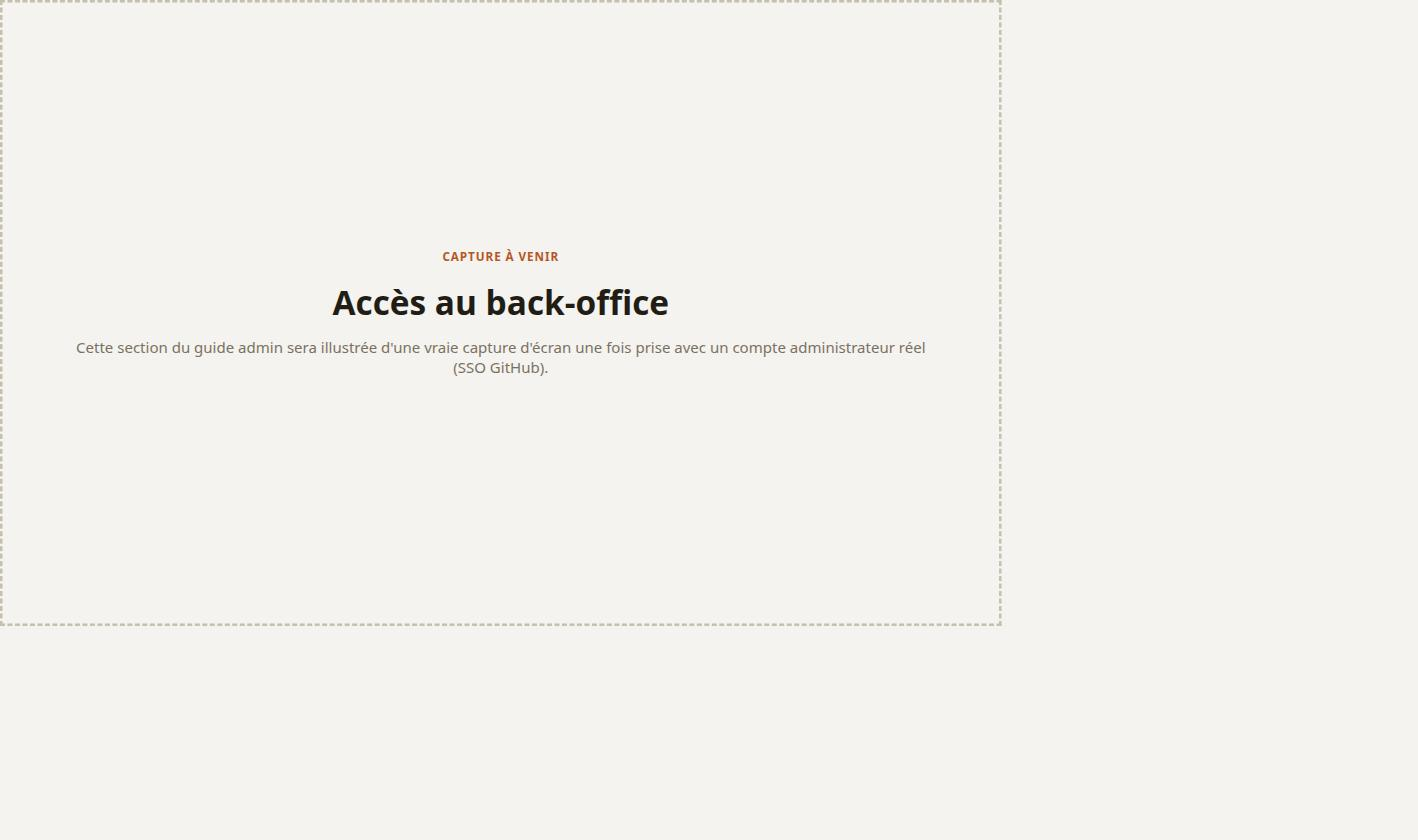
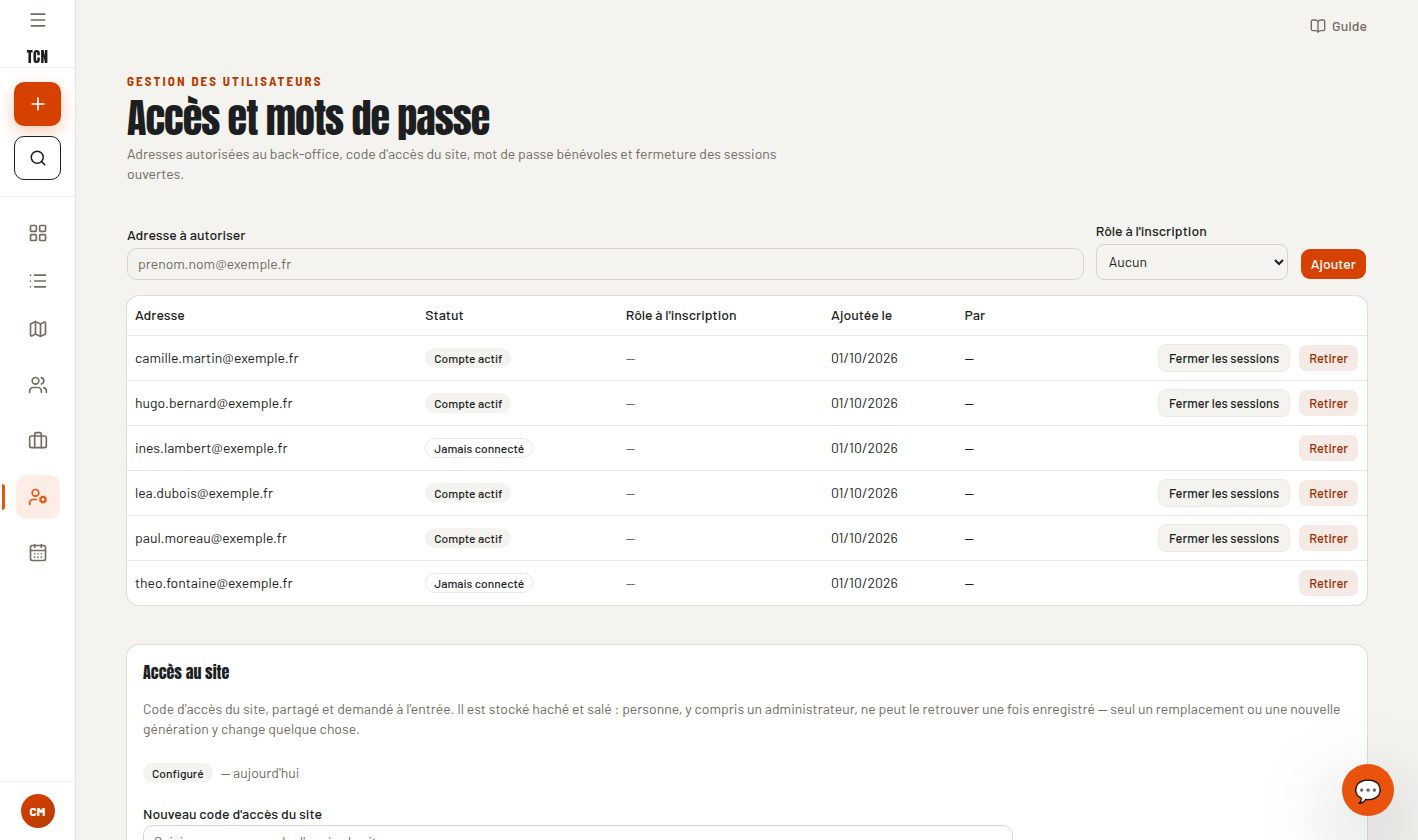
docs(guide): real captures for the last placeholders and the public-page admin gestures (#874, #1046)
- #874: « Rôles des utilisateurs » and « Accès et mots de passe » get real captures, on fictitious accounts. No placeholder is left, so the placeholder badge and alt prefix are removed from GuideSection and its type.
- #1046: new admin section « Gestes sur les pages publiques » (« Corriger la fiche », « Valider la saison », « Rattacher » and « Supprimer » on an athlete's results), with its capture.

diff --git a/frontend/components/guide/guide-content.admin.ts b/frontend/components/guide/guide-content.admin.ts
@@ -85,7 +85,7 @@ export const GUIDE_ADMIN: GuideSection[] = [
       "Ouvrir « Rôles des utilisateurs » depuis la navigation admin.",
       "Retrouver la personne concernée, puis lui attribuer ou retirer un rôle.",
     ],
-    captures: [{ src: "/guide/admin/utilisateurs.jpg", alt: "Liste des utilisateurs et de leurs rôles", placeholder: true }],
+    captures: [{ src: "/guide/admin/utilisateurs.jpg", alt: "Liste des utilisateurs et de leurs rôles" }],
   },
   {
     id: "journal",
@@ -163,6 +163,19 @@ export const GUIDE_ADMIN: GuideSection[] = [
       "Mot de passe bénévoles : même geste, pour la page de vérification des résultats réservée aux bénévoles.",
       "Fermer les sessions : par adresse depuis la liste, ou toutes à la fois en bas de l'écran, vous compris.",
     ],
-    captures: [{ src: "/guide/admin/acces-backoffice.jpg", alt: "Liste des adresses autorisées au back-office", placeholder: true }],
+    captures: [{ src: "/guide/admin/acces-backoffice.jpg", alt: "Liste des adresses autorisées au back-office" }],
+  },
+  {
+    id: "pages-publiques",
+    titre: "Gestes sur les pages publiques",
+    casUsage:
+      "Certains gestes d'administration se font depuis la fiche d'un athlète, sans passer par le back-office : ils n'apparaissent qu'aux comptes qui en ont le pouvoir.",
+    etapes: [
+      "Ouvrir la fiche de l'athlète, par la recherche (⌘K ou Ctrl K) ou depuis un classement.",
+      "« Corriger la fiche » : modifier le nom, le prénom, la date de naissance ou le club actuel. Un club corrigé à la main n'est plus réécrit par les imports suivants.",
+      "« Valider la saison » : choisir la saison, lire le décompte des épreuves et du bénévolat affiché dessous, puis valider.",
+      "Dans la liste de ses épreuves, « Rattacher » déplace un résultat vers la bonne fiche, et « Supprimer » le retire.",
+    ],
+    captures: [{ src: "/guide/admin/pages-publiques.jpg", alt: "Fiche athlète vue par un administrateur, avec la correction de fiche et la validation de saison" }],
   },
 ];

diff --git a/frontend/components/guide/guide-content.admin.test.ts b/frontend/components/guide/guide-content.admin.test.ts
@@ -19,10 +19,11 @@ const IDS_ATTENDUS = [
   "portee-compteurs",
   "benevolat-validation",
   "acces-backoffice",
+  "pages-publiques",
 ];
 
 describe("GUIDE_ADMIN", () => {
-  it("expose exactement les 15 ids attendus, dans l'ordre", () => {
+  it("expose exactement les 16 ids attendus, dans l'ordre", () => {
     expect(GUIDE_ADMIN.map((section) => section.id)).toEqual(IDS_ATTENDUS);
   });
 
@@ -42,21 +43,6 @@ describe("GUIDE_ADMIN", () => {
       }
     }
   });
-
-  it("ne porte `placeholder: true` que sur les captures qui n'en ont pas encore de réelle (#874)", () => {
-    // 13/15 des captures admin ont été remplacées par de vraies captures en
-    // dev local (session admin réelle) ; les 2 restantes exposent des
-    // données personnelles réelles (liste d'utilisateurs, adresses
-    // autorisées) qu'on ne persiste pas dans le dépôt sans plus de
-    // précaution — elles restent des placeholders volontairement.
-    const ENCORE_PLACEHOLDER = ["utilisateurs", "acces-backoffice"];
-    for (const section of GUIDE_ADMIN) {
-      const attendu = ENCORE_PLACEHOLDER.includes(section.id);
-      for (const capture of section.captures) {
-        expect(capture.placeholder ?? false, `${section.id} : ${capture.src}`).toBe(attendu);
-      }
-    }
-  });
 });
 
 describe("GUIDE_ADMIN wording (#1046)", () => {
@@ -72,5 +58,14 @@ describe("GUIDE_ADMIN wording (#1046)", () => {
     expect(texte).toMatch(/code d'accès/i);
     expect(texte).toMatch(/bénévoles/i);
     expect(texte).toMatch(/sessions/i);
+  });
+});
+
+describe("GUIDE_ADMIN public-page gestures (#1046)", () => {
+  it("names the admin buttons shown on public pages", () => {
+    const texte = GUIDE_ADMIN.find((s) => s.id === "pages-publiques")!.etapes.join(" ");
+    expect(texte).toMatch(/« Corriger la fiche »/);
+    expect(texte).toMatch(/« Valider la saison »/);
+    expect(texte).toMatch(/« Rattacher »/);
   });
 });

diff --git a/frontend/components/guide/GuideSection.tsx b/frontend/components/guide/GuideSection.tsx
@@ -1,5 +1,5 @@
 import Image from "next/image";
-import { Badge, Card } from "@/components/tcn";
+import { Card } from "@/components/tcn";
 import type { GuideSection as GuideSectionData } from "./types";
 
 export function GuideSection({ section }: { section: GuideSectionData }) {
@@ -27,13 +27,9 @@ export function GuideSection({ section }: { section: GuideSectionData }) {
       <div className="space-y-3">
         {section.captures.map((capture) => (
           <div key={capture.src} className="space-y-2">
-            {capture.placeholder && <Badge variant="orange">Capture à venir</Badge>}
             <Image
               src={capture.src}
-              // Le statut "à venir" est répété dans l'alt : le badge visuel
-              // ne suffit pas pour un lecteur d'écran, qui n'a que le texte
-              // alternatif de l'image (#865, revue de code).
-              alt={capture.placeholder ? `Capture à venir — ${capture.alt}` : capture.alt}
+              alt={capture.alt}
               // Ratio réel des 21 captures livrées (1418×840) : sans ce
               // ratio exact, `width`/`height` imposent une boîte 1200×750
               // (1,6:1) que le navigateur étire, ~5,5 % de distorsion sur

diff --git a/frontend/components/guide/GuideSection.test.tsx b/frontend/components/guide/GuideSection.test.tsx
@@ -41,25 +41,9 @@ describe("GuideSection — accès direct par ancre (#865, US3)", () => {
   });
 });
 
-describe("GuideSection — capture placeholder (#865, #874)", () => {
-  const avecPlaceholder: GuideSectionData = {
-    ...section,
-    captures: [{ src: "/guide/admin/epreuves.jpg", alt: "Écran de gestion des épreuves", placeholder: true }],
-  };
-
-  it("le dit dans l'alt, pas seulement visuellement — un lecteur d'écran n'a que le texte alternatif", () => {
-    render(<GuideSection section={avecPlaceholder} />);
-    expect(screen.getByAltText("Capture à venir — Écran de gestion des épreuves")).toBeInTheDocument();
-  });
-
-  it("affiche un badge visuel « Capture à venir »", () => {
-    render(<GuideSection section={avecPlaceholder} />);
-    expect(screen.getByText("Capture à venir")).toBeInTheDocument();
-  });
-
-  it("ne modifie pas l'alt d'une capture réelle", () => {
+describe("GuideSection — capture", () => {
+  it("uses the capture alt text as is", () => {
     render(<GuideSection section={section} />);
     expect(screen.getByAltText("Espace club, synthèse et podiums")).toBeInTheDocument();
-    expect(screen.queryByText("Capture à venir")).not.toBeInTheDocument();
   });
 });

diff --git a/frontend/app/admin/guide/page.test.tsx b/frontend/app/admin/guide/page.test.tsx
@@ -3,14 +3,14 @@ import { render, screen } from "@testing-library/react";
 import GuideAdminPage from "./page";
 
 describe("GuideAdminPage", () => {
-  it("rend le sommaire et les 15 sections admin", () => {
+  it("rend le sommaire et les 16 sections admin", () => {
     render(<GuideAdminPage />);
     expect(screen.getByRole("heading", { name: "Guide", level: 1 })).toBeInTheDocument();
     expect(screen.getByRole("navigation", { name: "Sommaire du guide" })).toBeInTheDocument();
     expect(screen.getByRole("heading", { name: "Épreuves" })).toBeInTheDocument();
     expect(screen.getByRole("heading", { name: "Fournisseurs en attente" })).toBeInTheDocument();
     expect(screen.getByRole("heading", { name: "Accès et mots de passe" })).toBeInTheDocument();
-    // Les 15 sections, une par <h2>.
-    expect(screen.getAllByRole("heading", { level: 2 })).toHaveLength(15);
+    // Les 16 sections, une par <h2>.
+    expect(screen.getAllByRole("heading", { level: 2 })).toHaveLength(16);
   });
 });

diff --git a/frontend/components/guide/types.ts b/frontend/components/guide/types.ts
@@ -1,9 +1,12 @@
-/** Une capture d'écran illustrant une section du guide. */
+/**
+ * Une capture d'écran illustrant une section du guide, en 1418×840.
+ * Prise sur le jeu de démo aux noms anonymisés, jamais sur des données
+ * réelles : le dépôt est public, ces images aussi (#926). Build de
+ * production, pour qu'aucun badge ni overlay de développement n'y figure.
+ */
 export type GuideCapture = {
   src: string;
   alt: string;
-  /** Image "Capture à venir" plutôt qu'un vrai rendu de l'écran (#874). */
-  placeholder?: boolean;
 };
 
 /** Le contenu d'une section du guide (une fonctionnalité documentée). */
